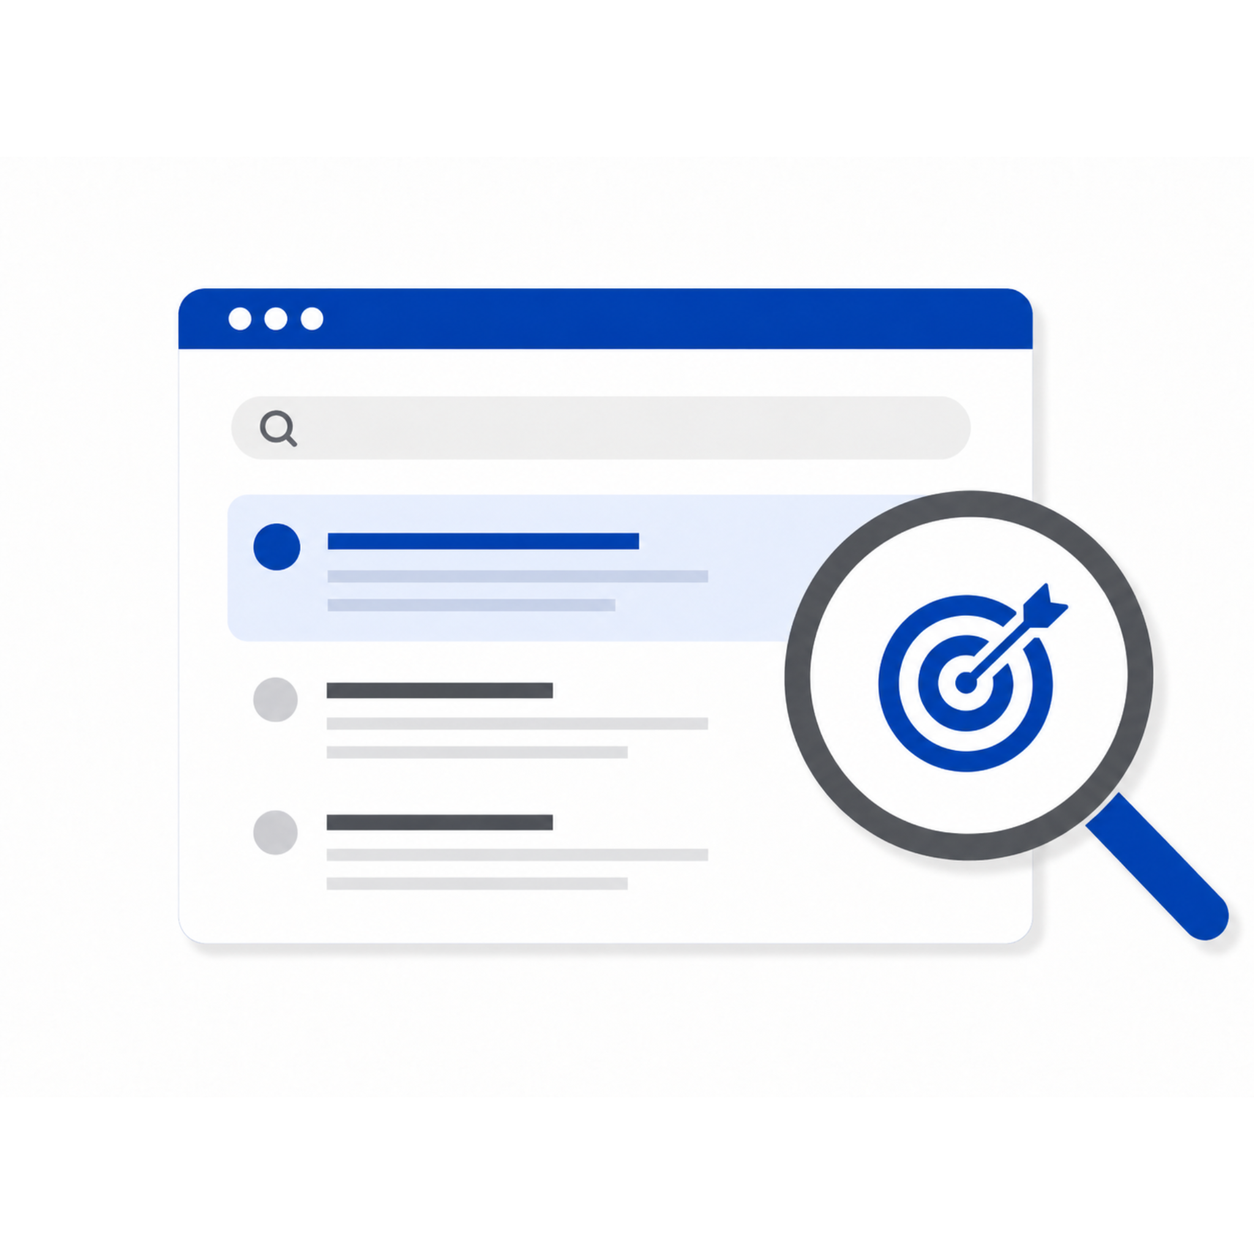
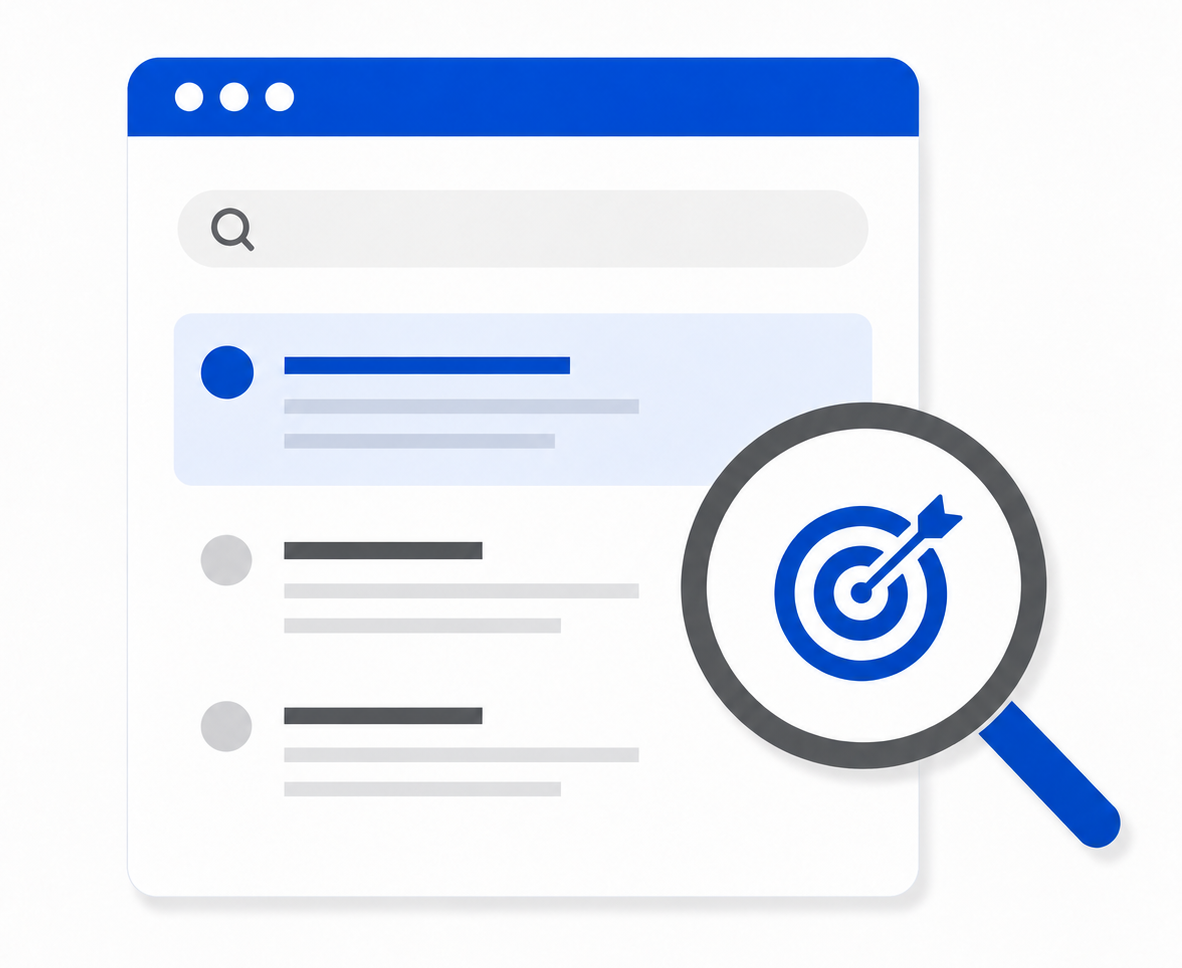
update

diff --git a/src/components/sections/WebSolutionsSection.jsx b/src/components/sections/WebSolutionsSection.jsx
@@ -2,10 +2,8 @@ import { useEffect, useRef, useState } from 'react';
 import SectionHeader from '../SectionHeader';
 import wordpressLogo from '../../../media/icons/wordpress.png';
 import customWebAppImage from '../../../media/images/custom_web_app.png';
-import customWebAppSquareImage from '../../../media/images/custom_web_app_square.png';
 import ecommerceImage from '../../../media/images/ecommerce.png';
 import seoOrientedImage from '../../../media/images/seo_oriented.png';
-import seoOrientedSquareImage from '../../../media/images/seo_oriented_square.png';
 
 const cx = (...classes) => classes.filter(Boolean).join(' ');
 
@@ -82,7 +80,7 @@ const LEFT_WEB_SOLUTION_CARDS = [
     description: 'Soluzioni personalizzate per garantire efficienza, sicurezza e flessibilità nel tempo.',
     mobileDescription: 'Soluzioni ad-hoc che garantiscono sicurezza, efficienza e flessibilità',
     previewImage: customWebAppImage,
-    stackedPreviewImage: customWebAppSquareImage
+    stackedPreviewImage: customWebAppImage
   },
   {
     icon: 'web',
@@ -90,7 +88,7 @@ const LEFT_WEB_SOLUTION_CARDS = [
     description: 'Siti vetrina ottimizzati per SEO e visibilità, veloci e gestibili in autonomia.',
     mobileDescription: 'Siti vetrina ottimizzati per SEO e visibilità',
     previewImage: seoOrientedImage,
-    stackedPreviewImage: seoOrientedSquareImage
+    stackedPreviewImage: seoOrientedImage
   }
 ];
 
@@ -388,7 +386,7 @@ function LeftSolutionCard({ card }) {
             <img
               src={card.previewImage}
               alt={card.title}
-              className={cx('absolute inset-0 h-full w-full object-cover scale-[1.12]', previewPositionClass)}
+              className={cx('absolute inset-0 h-full w-full object-cover scale-[1.04]', previewPositionClass)}
             />
           </div>
         </div>
